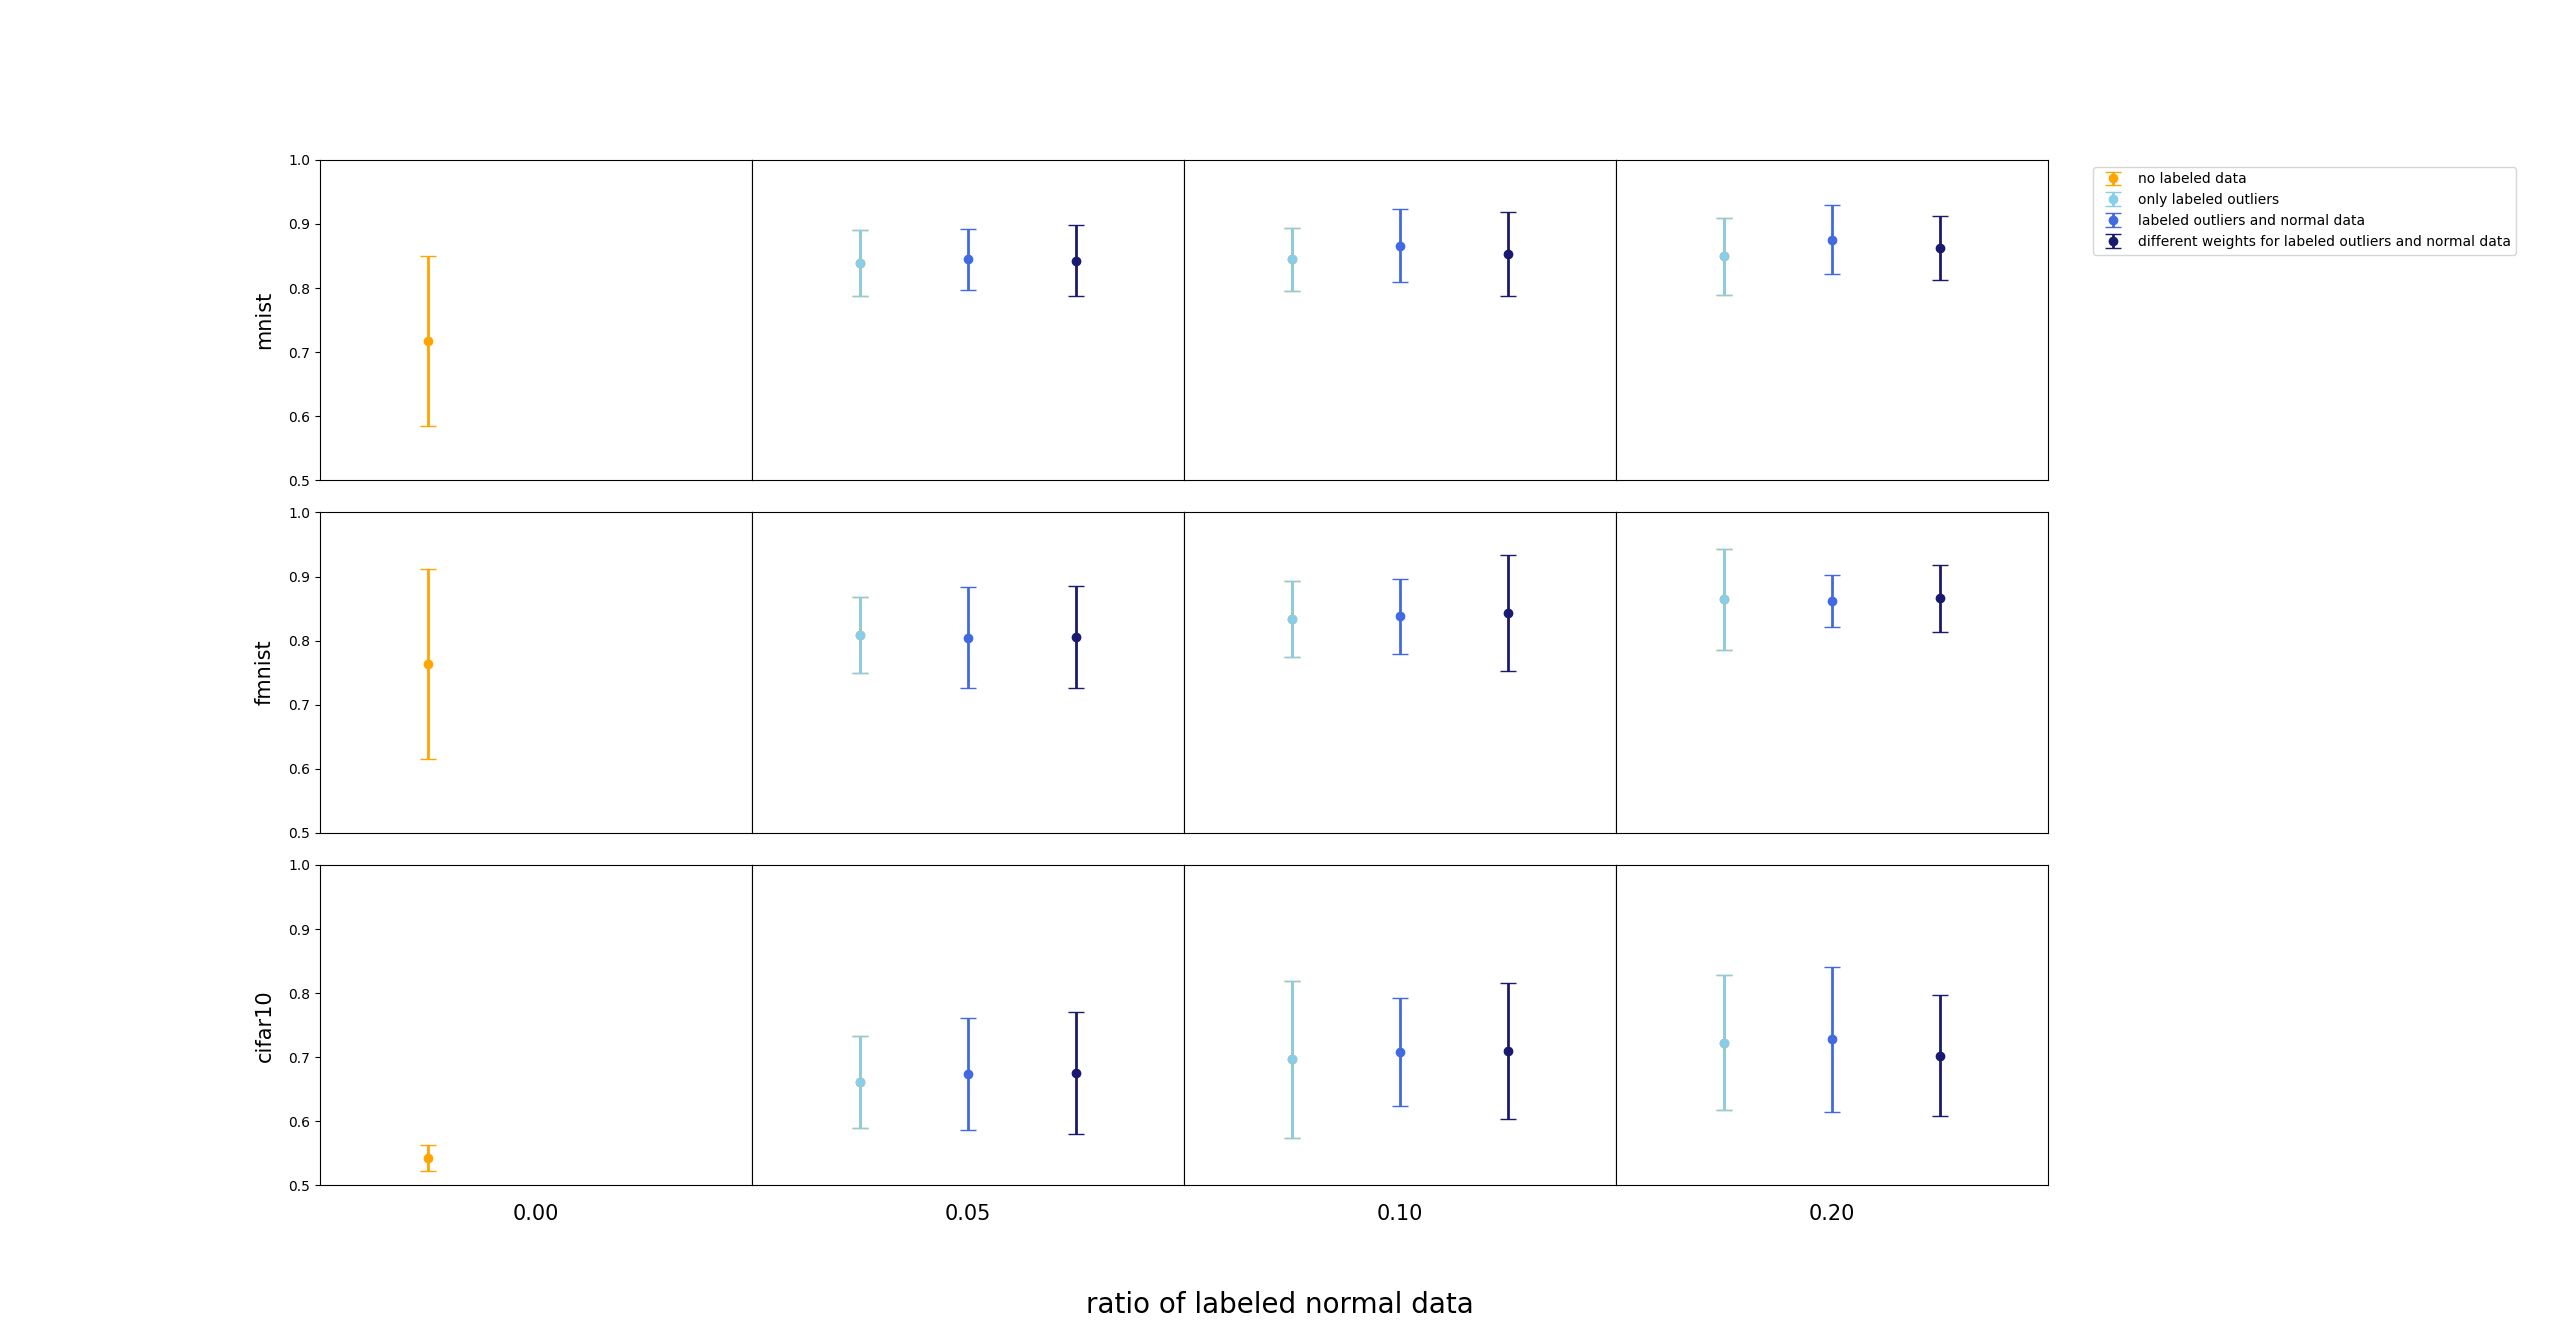
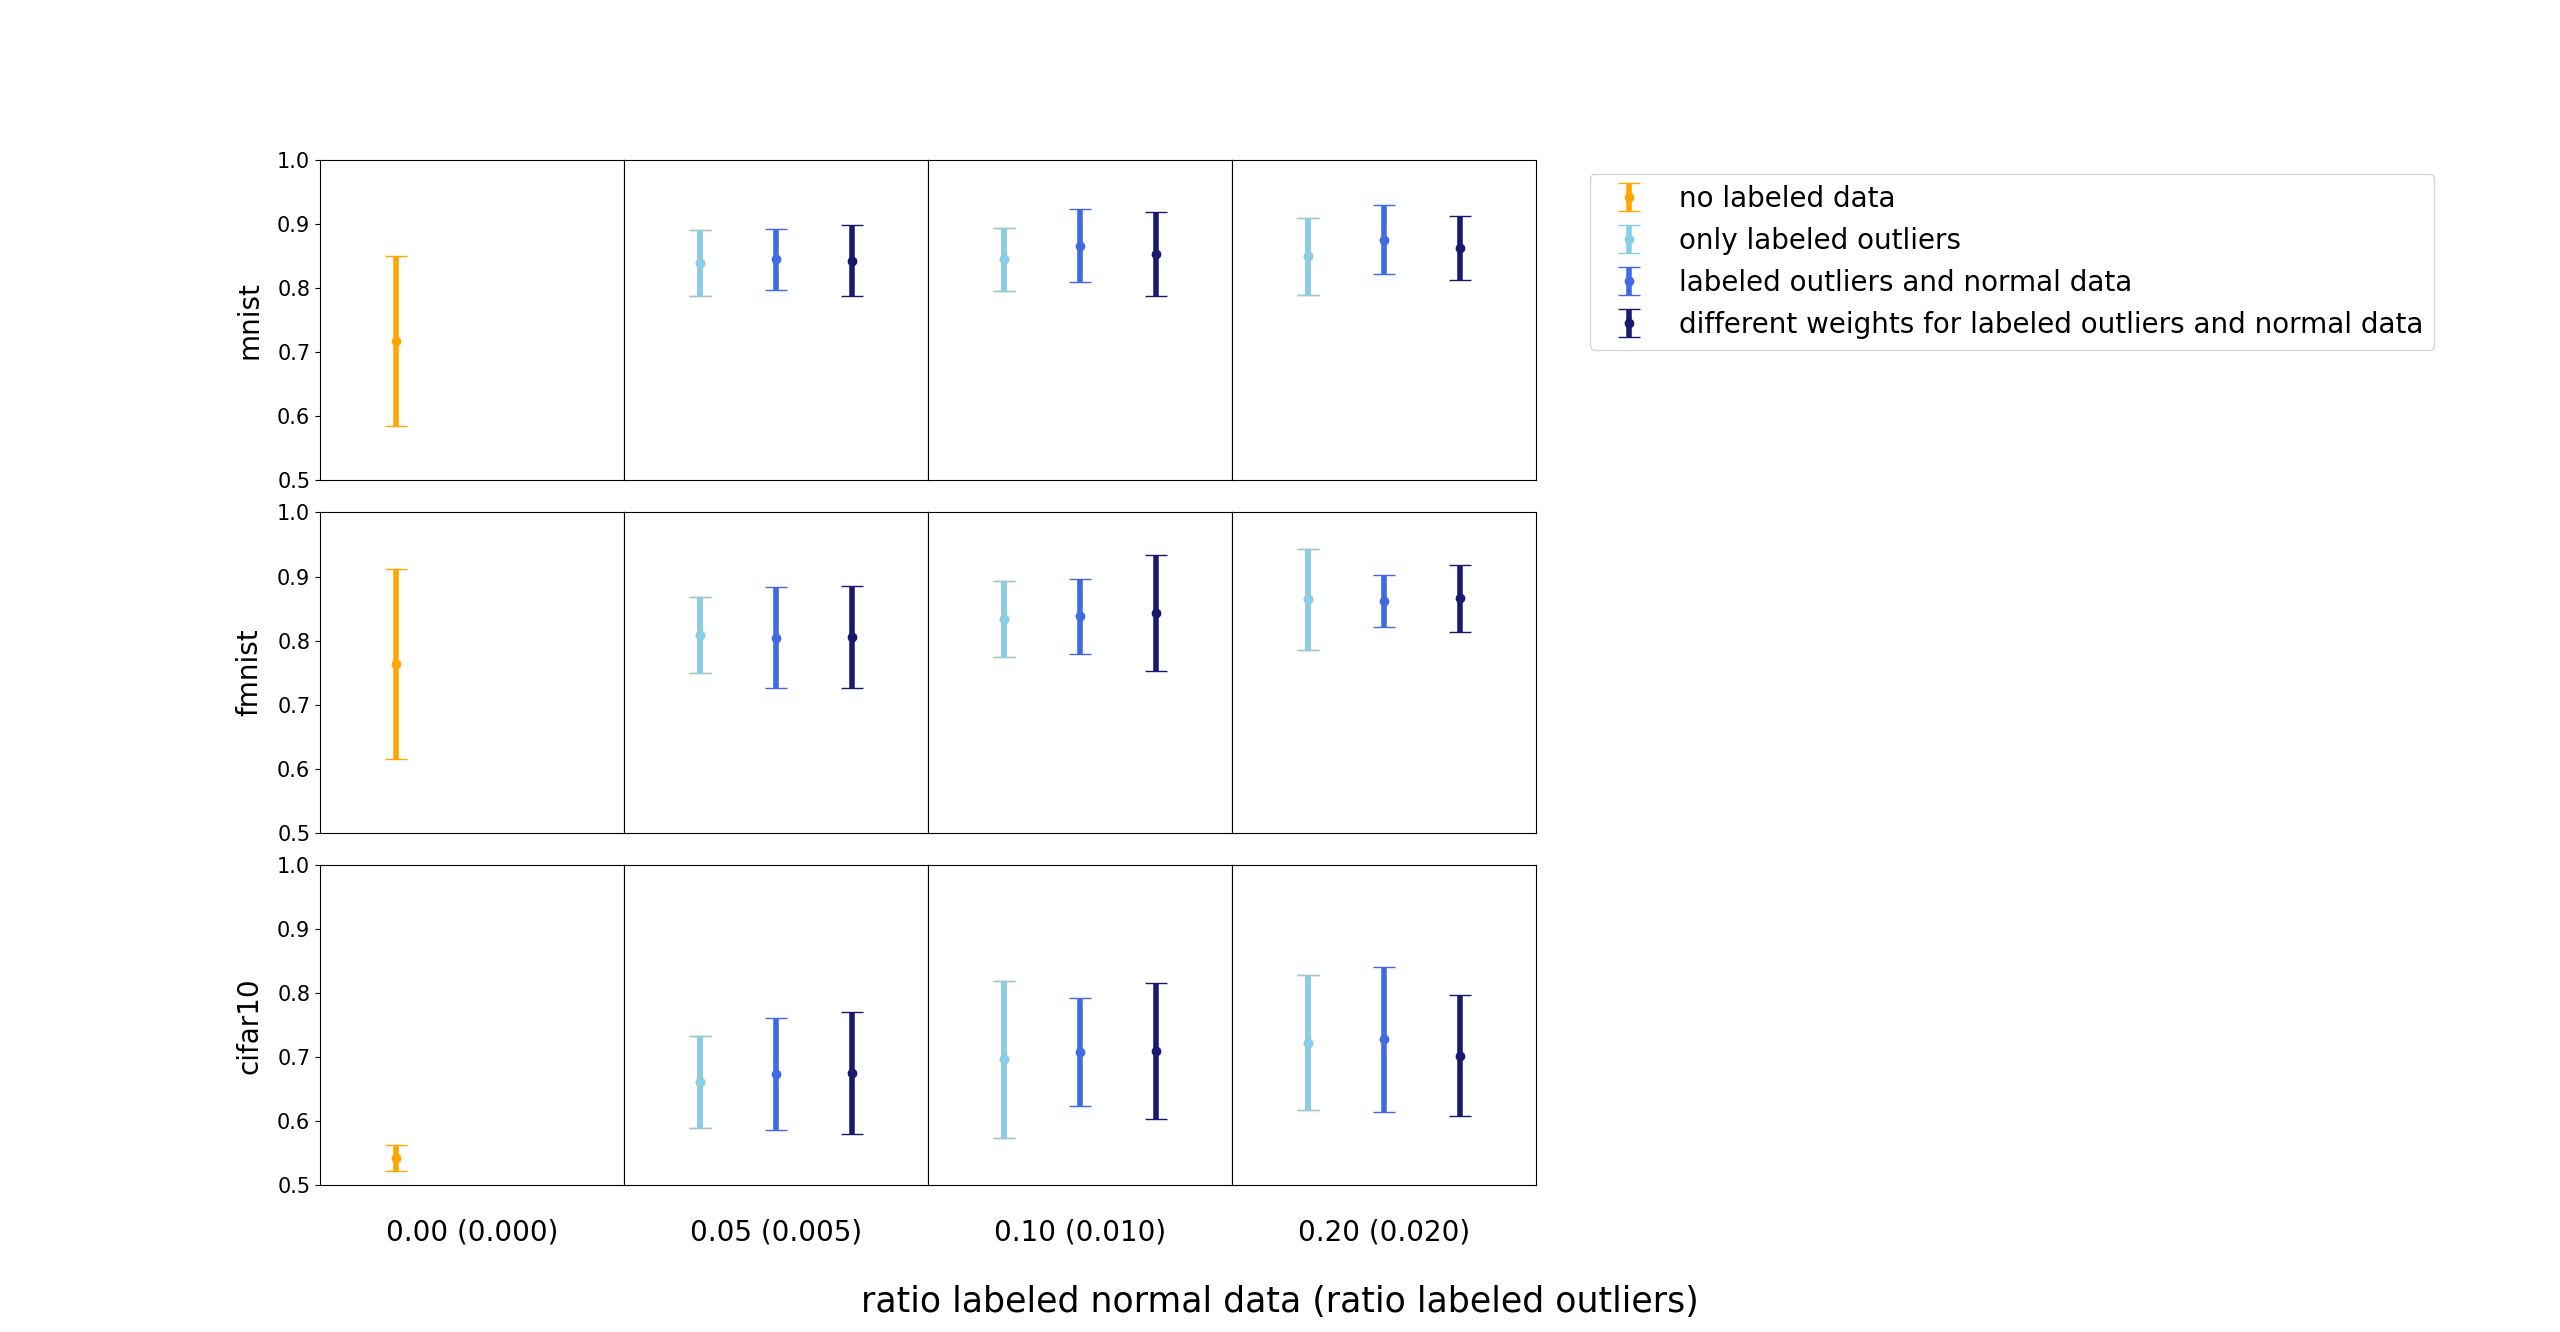
updated figures

diff --git a/make_graphics.py b/make_graphics.py
@@ -11,27 +11,28 @@ def get_data(dataset, decimal, architecture=""):
 
 
 def get_statistics(data):
-    return statistics.mean(data), statistics.stdev(data)
-
+    tuple = (statistics.mean(data), statistics.stdev(data))
+    return tuple
 
 def make_subplot(dataset_iteration, decimal_iteration, data1, data2=None, data3=None):
     ax = plt.subplot(3, 4, dataset_iteration * 4 + decimal_iteration + 1)
     mean, sd = get_statistics(data1)
-    plt.errorbar(0.5, mean, sd, fmt="o", linewidth=2, capsize=6, label="no labeled data", color="orange")
+    plt.errorbar(0.5, mean, sd, fmt="o", linewidth=4, capsize=8, label="no labeled data", color="orange")
     if data2 is not None:
-        plt.errorbar(0.5, mean, sd, fmt="o", linewidth=2, capsize=6, label="only labeled outliers", color="skyblue")
+        plt.errorbar(0.5, mean, sd, fmt="o", linewidth=4, capsize=8, label="only labeled outliers", color="skyblue")
         mean, sd = get_statistics(data2)
-        plt.errorbar(1.0, mean, sd, fmt="o", linewidth=2, capsize=6, label="labeled outliers and normal data",
+        plt.errorbar(1.0, mean, sd, fmt="o", linewidth=4, capsize=8, label="labeled outliers and normal data",
                      color="royalblue")
         mean, sd = get_statistics(data3)
-        plt.errorbar(1.5, mean, sd, fmt="o", linewidth=2, capsize=6, color="midnightblue",
+        plt.errorbar(1.5, mean, sd, fmt="o", linewidth=4, capsize=8, color="midnightblue",
                  label="different weights for labeled outliers and normal data")
         ax.yaxis.set_visible(False)
     else:
-        ax.set_ylabel(datasets[dataset_iteration], labelpad=10, fontsize=15)
+        ax.set_ylabel(datasets[dataset_iteration], labelpad=10, fontsize=20)
     ax.set(xlim=(0, 2), xticks=[], ylim=(0.5, 1), yticks=np.arange(0.5, 1.01, 0.1))
+    ax.tick_params(axis="y", labelsize=15)
     if dataset_iteration == 2:
-        ax.set_xlabel(f"0.{decimals[decimal_iteration]}", labelpad=10, fontsize=15)
+        ax.set_xlabel(f"0.{decimals[decimal_iteration]} (0.0{decimals[decimal_iteration]})", labelpad=20, fontsize=20)
 
 
 if __name__ == "__main__":
@@ -50,10 +51,10 @@ if __name__ == "__main__":
                 make_subplot(dataset_iteration, decimal_iteration, data[0], data[1], data[2])
 
     fig.subplots_adjust(wspace=0, hspace=0.1)
-    fig.supxlabel("ratio of labeled normal data", fontsize=20)
+    fig.supxlabel("ratio labeled normal data (ratio labeled outliers)", fontsize=25)
 
-    plt.subplots_adjust(right=0.8)
-    plt.legend(bbox_to_anchor=(2.1, 3.2))
+    plt.subplots_adjust(right=0.6)
+    plt.legend(bbox_to_anchor=(4.0, 3.2), fontsize=20)
     plt.show()
 
 

diff --git a/make_graphic_pollution.py b/make_graphic_pollution.py
@@ -11,21 +11,24 @@ def get_data(dataset, decimal):
 
 
 def get_statistics(data):
-    return statistics.mean(data), statistics.stdev(data)
+    tuple = (statistics.mean(data), statistics.stdev(data))
+    return tuple
+
 
 
 def make_subplot(dataset_iteration, data1, data2, data3):
     ax = plt.subplot(3, 1, dataset_iteration + 1)
     mean, sd = get_statistics(data1)
-    plt.errorbar(0.5, mean, sd, fmt="o", linewidth=2, capsize=6, label="no pollution", color="yellowgreen")
+    plt.errorbar(0.5, mean, sd, fmt="o", linewidth=4, capsize=8, label="no pollution", color="yellowgreen")
     mean, sd = get_statistics(data2)
-    plt.errorbar(1.0, mean, sd, fmt="o", linewidth=2, capsize=6, label="0.01 pollution",
+    plt.errorbar(1.0, mean, sd, fmt="o", linewidth=4, capsize=8, label="0.01 pollution",
                      color="limegreen")
     mean, sd = get_statistics(data3)
-    plt.errorbar(1.5, mean, sd, fmt="o", linewidth=2, capsize=6, color="darkgreen",
+    plt.errorbar(1.5, mean, sd, fmt="o", linewidth=4, capsize=8, color="darkgreen",
                  label="0.05 pollution")
     #ax.yaxis.set_visible(False)
-    ax.set_ylabel(datasets[dataset_iteration], labelpad=10, fontsize=15)
+    ax.set_ylabel(datasets[dataset_iteration], labelpad=10, fontsize=20)
+    ax.tick_params(axis="y", labelsize=15)
     ax.set(xlim=(0, 2), xticks=[], ylim=(0.5, 1), yticks=np.arange(0.5, 1.01, 0.1))
 
 
@@ -44,7 +47,7 @@ if __name__ == "__main__":
     #fig.supxlabel("ratio of labeled normal data", fontsize=20)
 
     plt.subplots_adjust(right=0.3)
-    plt.legend(bbox_to_anchor=(1.4, 3.2))
+    plt.legend(bbox_to_anchor=(1.8, 3.2), fontsize=20)
     plt.show()
 
 
